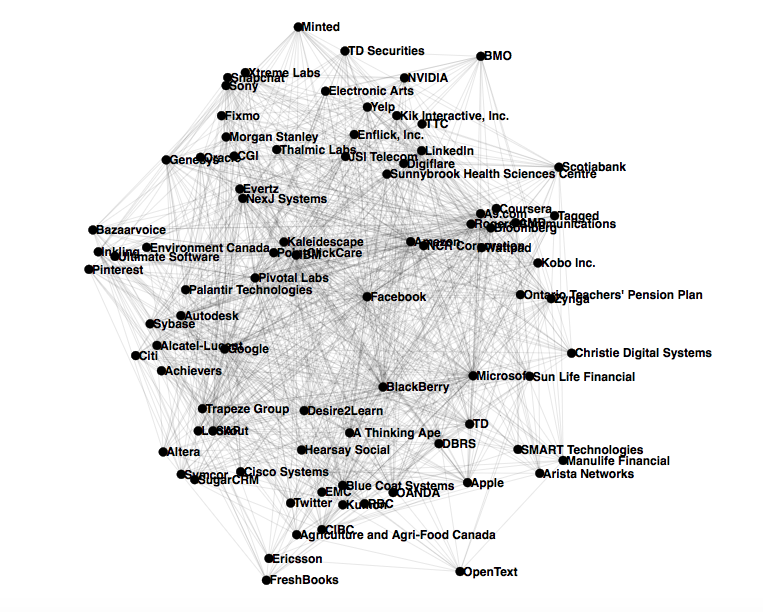
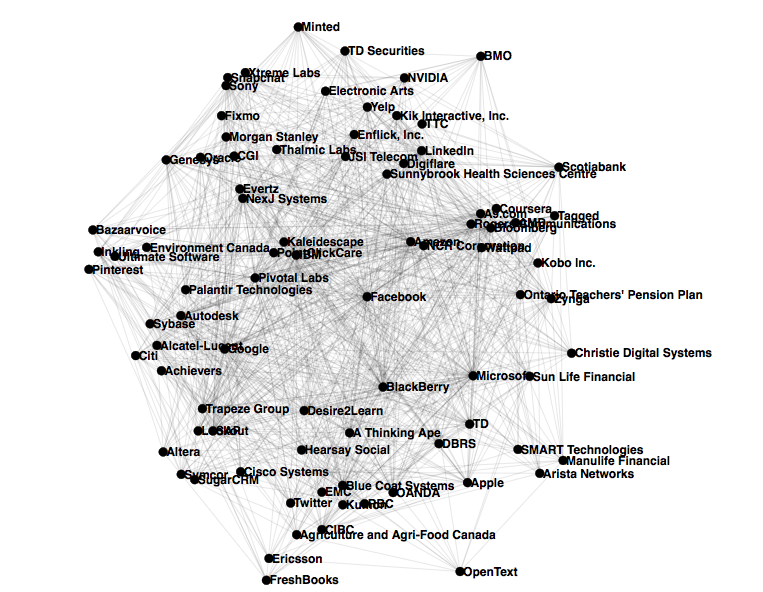
“changed“

Changed region(s): [[0.0904, 0.0608, 0.9345, 1.0], [0.3919, 0.0304, 0.4522, 0.0608], [0.3014, 0.8514, 0.3316, 0.8818]]

diff --git a/static/internships2.html b/static/internships2.html
@@ -23,6 +23,10 @@ permalink: internships2.html
                     </p>
                     <h4 class="section_title">Data Visualization</h4>
                     <p style="text-align: left;">
+                    <img src="../img/internship_s1.jpeg">
+                    <img src="../img/internship_s2.jpeg">
+                    <img src="../img/internship_s3.jpeg">
+                    <br>
                     <a href="internships3.html" style="color:#ff5500;">Click here</a> for draft 1.
                     </p>
                 </div>

diff --git a/_site/internships2.html b/_site/internships2.html
@@ -87,6 +87,10 @@
                     </p>
                     <h4 class="section_title">Data Visualization</h4>
                     <p style="text-align: left;">
+                    <img src="../img/internship_s1.jpeg">
+                    <img src="../img/internship_s2.jpeg">
+                    <img src="../img/internship_s3.jpeg">
+                    <br>
                     <a href="internships3.html" style="color:#ff5500;">Click here</a> for draft 1.
                     </p>
                 </div>

diff --git a/static/internships3.html b/static/internships3.html
@@ -13,7 +13,7 @@ permalink: internships3.html
 </head>
 <body>
     <h1 style="padding: 0px 0px 0px 20px">Internship Progress at UW</h1>
-  <script type="text/javascript" src="http://d3js.org/d3.v3.min.js"></script>
+  <script type="text/javascript" src="https://d3js.org/d3.v3.min.js"></script>
   <script src="project3_intern_net/src/intern_net1.js"></script>
 </body>
 </html>

diff --git a/_site/internships3.html b/_site/internships3.html
@@ -47,7 +47,7 @@
 </head>
 <body>
     <h1 style="padding: 0px 0px 0px 20px">Internship Progress at UW</h1>
-  <script type="text/javascript" src="http://d3js.org/d3.v3.min.js"></script>
+  <script type="text/javascript" src="https://d3js.org/d3.v3.min.js"></script>
   <script src="project3_intern_net/src/intern_net1.js"></script>
 </body>
 </html>

diff --git a/_site/project3_intern_net/css/static.css b/_site/project3_intern_net/css/static.css
@@ -11,7 +11,7 @@
 
 .node text {
   pointer-events: none;
-  font: 11px sans-serif;
+  font: 13px sans-serif;
   fill: #000;
   font-weight: bolder;
 }

diff --git a/project3_intern_net/css/static.css b/project3_intern_net/css/static.css
@@ -11,7 +11,7 @@
 
 .node text {
   pointer-events: none;
-  font: 11px sans-serif;
+  font: 13px sans-serif;
   fill: #000;
   font-weight: bolder;
 }
